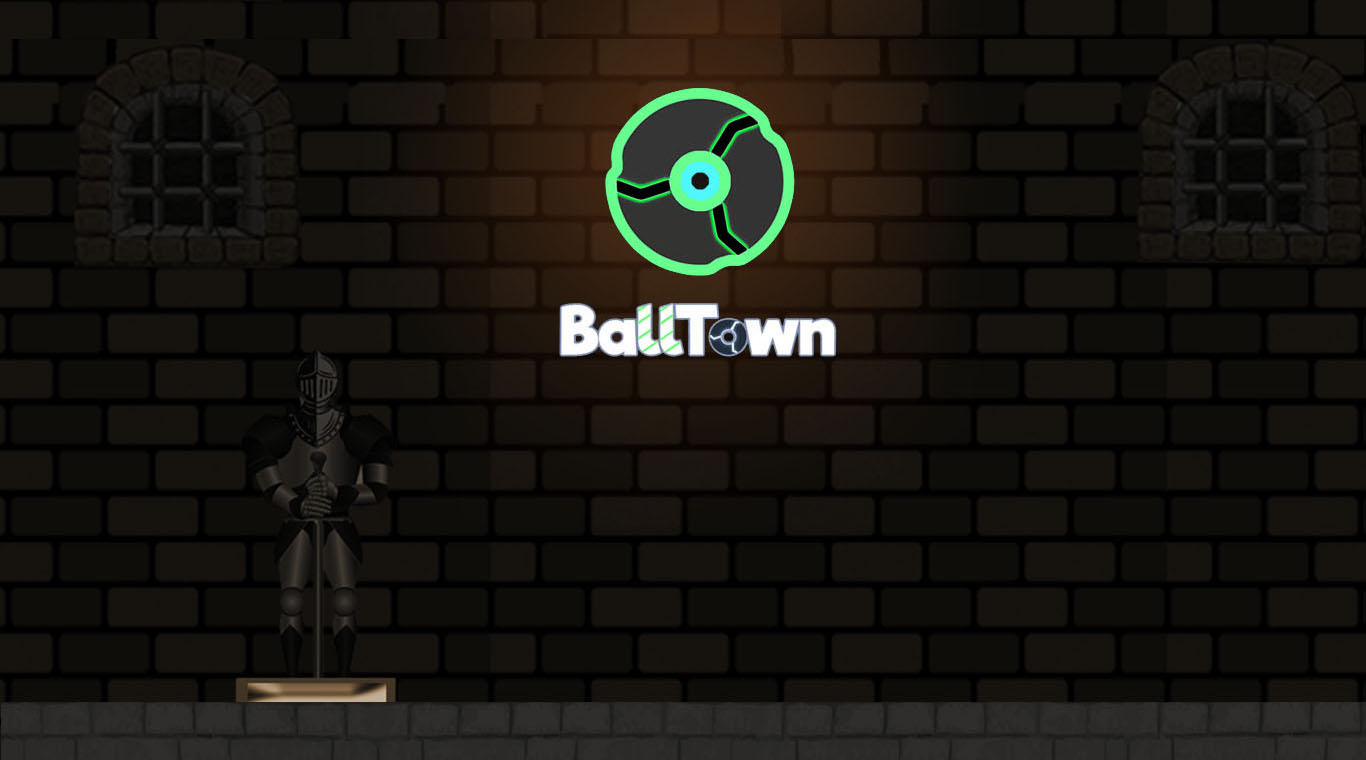
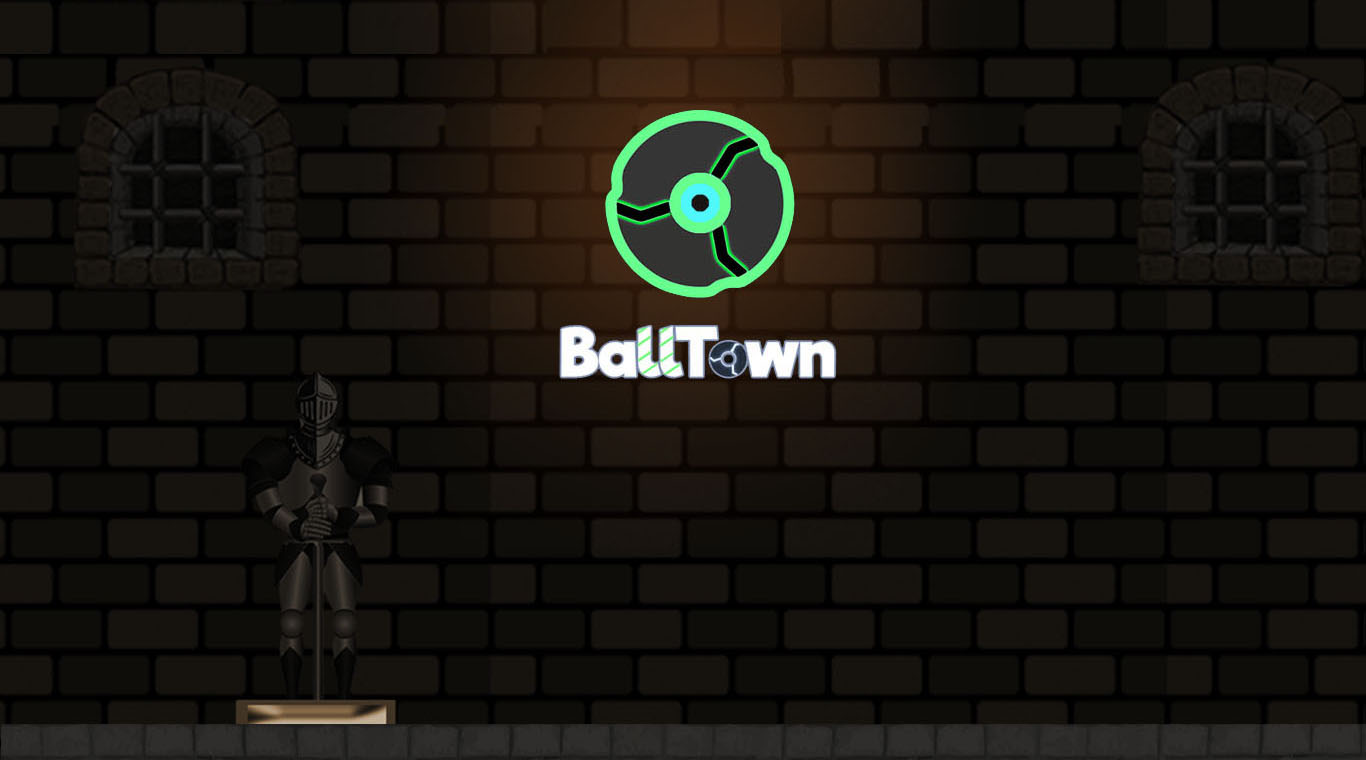
ht
hth

diff --git a/ball.html b/ball.html
@@ -357,7 +357,7 @@ section#final article.texto button.s1{
   text-align: center;
   text-decoration: none;
   top:-175px;
-  left:-260px;
+  left:-40px;
   transition:0.3s;
   cursor:pointer;
 }
@@ -1027,9 +1027,9 @@ opacity:0;
 section#final article.texto button.s1{
   position:relative;
   font-family:'Manjari', sans-serif;
-  font-size:40pt;
+  font-size:100pt;
   display: block;
-  padding: 15px;
+  padding: 25px;
   border:solid springgreen;
   background: transparent; 
   border-radius:20px;
@@ -1037,7 +1037,7 @@ section#final article.texto button.s1{
   text-align: center;
   text-decoration: none;
   top:565px;
-  left:-650px;
+  left:0px;
   transition:0.3s;
   cursor:pointer;
 }
@@ -1690,7 +1690,7 @@ section#final article.texto button.s1{
   text-align: center;
   text-decoration: none;
   top:-175px;
-  left:-260px;
+  left:-30px;
   transition:0.3s;
   cursor:pointer;
 }
@@ -2863,7 +2863,7 @@ atingir os pontos necessários.
 
 
 <a href="https://jeanjsc.itch.io/balltown-free" target="_blank"><button class="s1">Download</button></a>
-<a href="https://play.google.com/store/apps/details?id=com.jl.jogos2d&hl=en_US&gl=US" target="_blank"><button class="s2">Download</button></a>
+<a href="" target="_blank" style="opacity: 0;;"><button class="s2">Download</button></a>
 
 
 </article>
